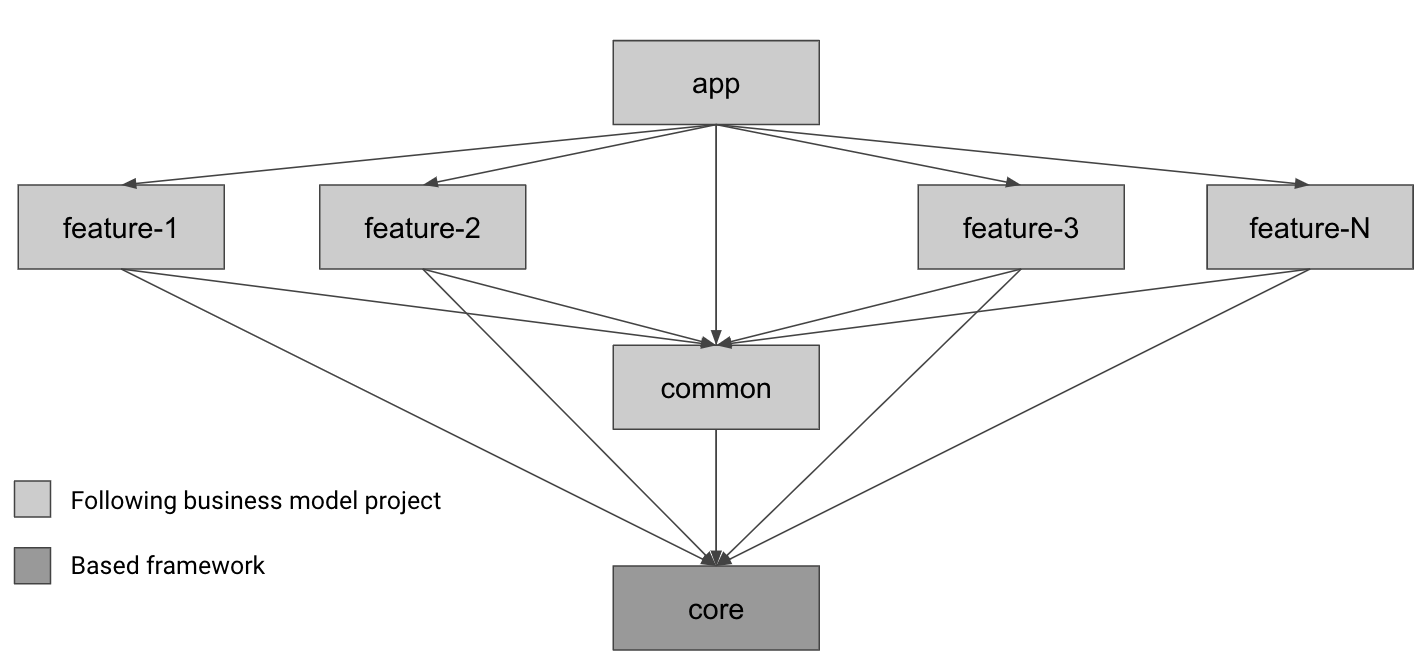
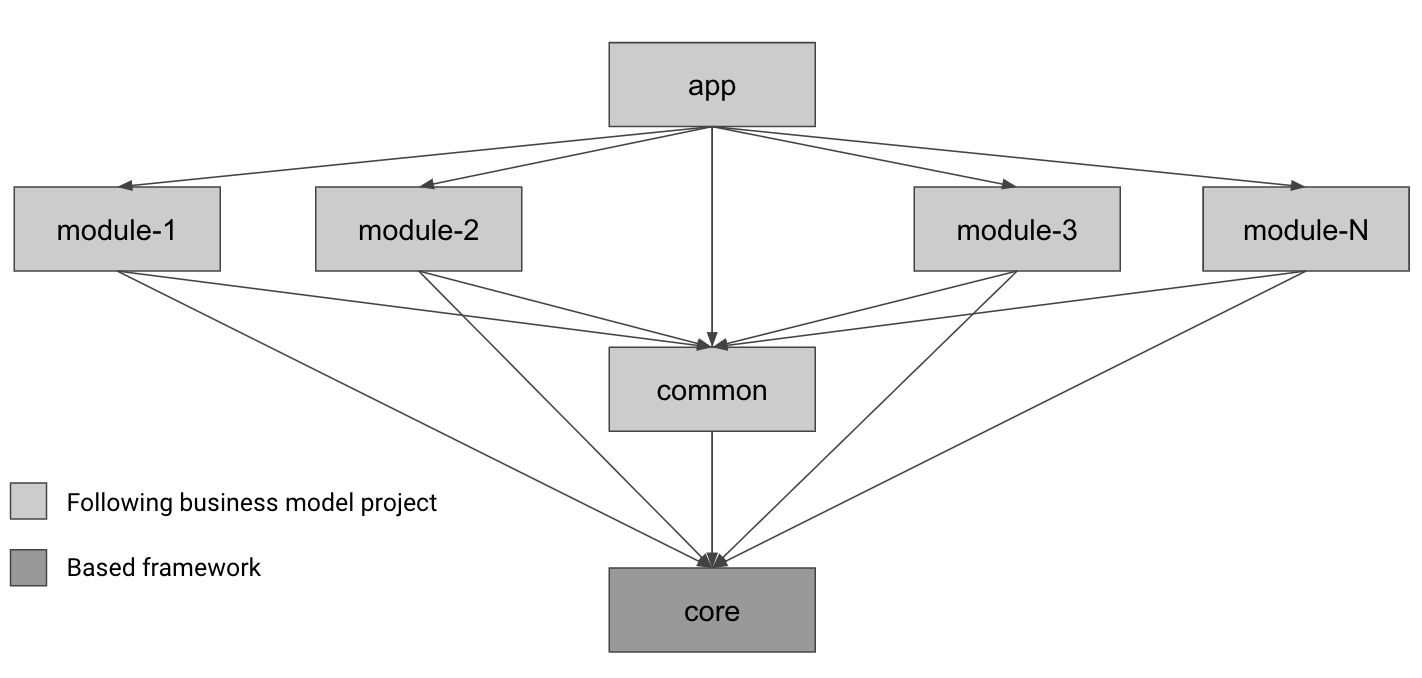
Update description of module

diff --git a/content/standard/android/standard/index.md b/content/standard/android/standard/index.md
@@ -47,6 +47,18 @@ toc: true
 
 {{< img src="diagrammodular.png" alt="Diagram modular Image" caption="<em>Diagram modular Image</em>" class="border-0" >}}
 
+- **app** : main module project
+- **module-1..module-N** : module of features. 
+  To define module of feature, create a group of features. For example if we have a project like Gojek may the module are like below.
+| Module Name | Description |
+|-----|-----|
+| auth | Module for authentication. In here there are login, register, forgot password |
+| go-food | Module for GoFood. There are near me, voucher/ promo (go-food), history, etc. |
+| go-send | Module for GoSend. There are within city, intercity and voucher |
+
+- **common** : is a module to support other modules that have common used classes in project following their own contract/business model.
+- **core** : core library.
+
 ### Foldering/Packaging
 
 Structure of foldering/packaging in module are like this
